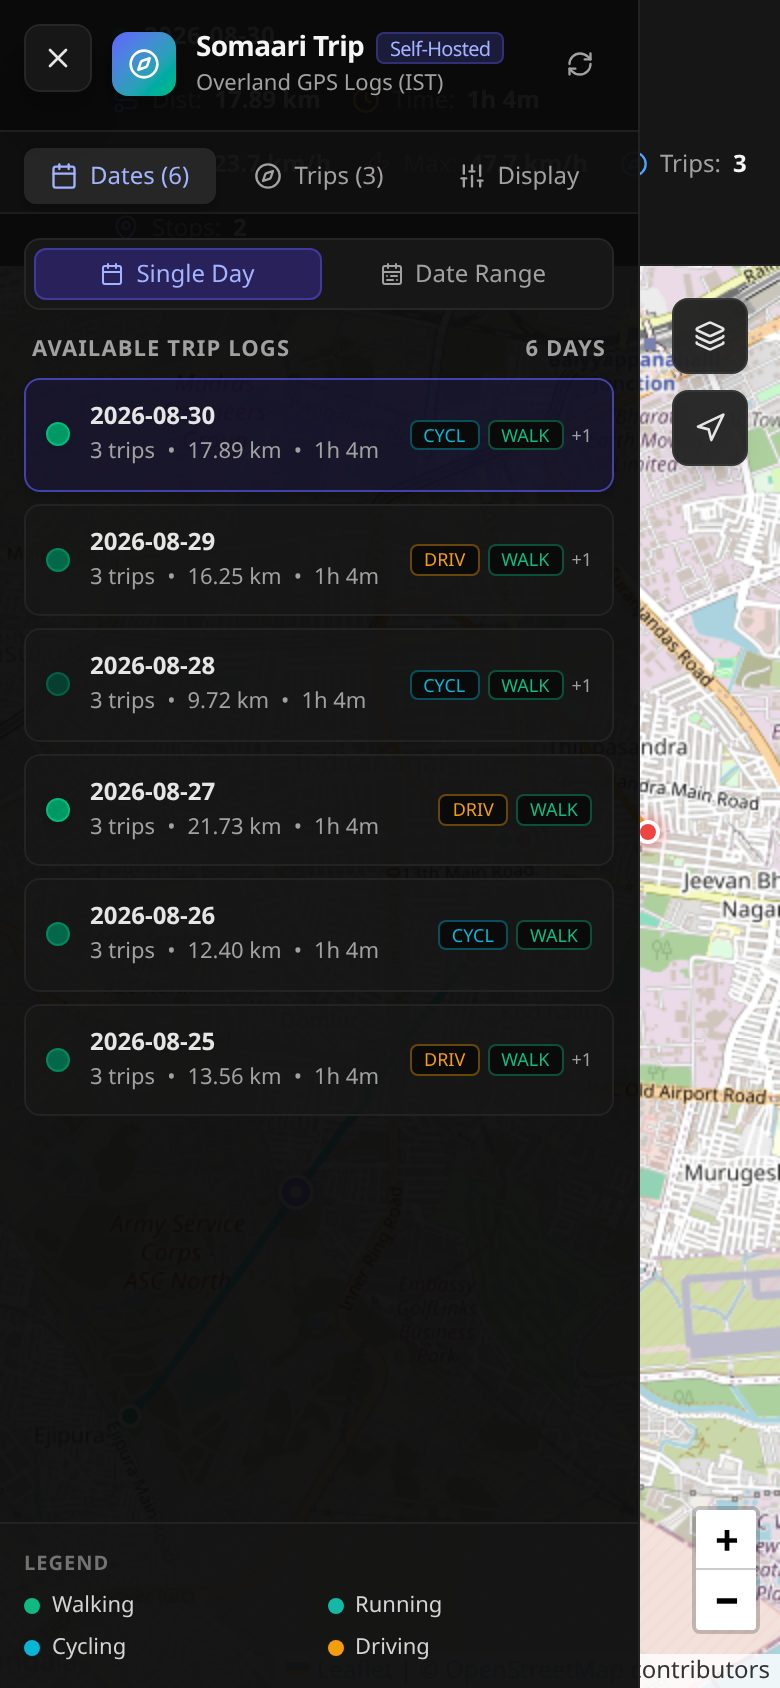
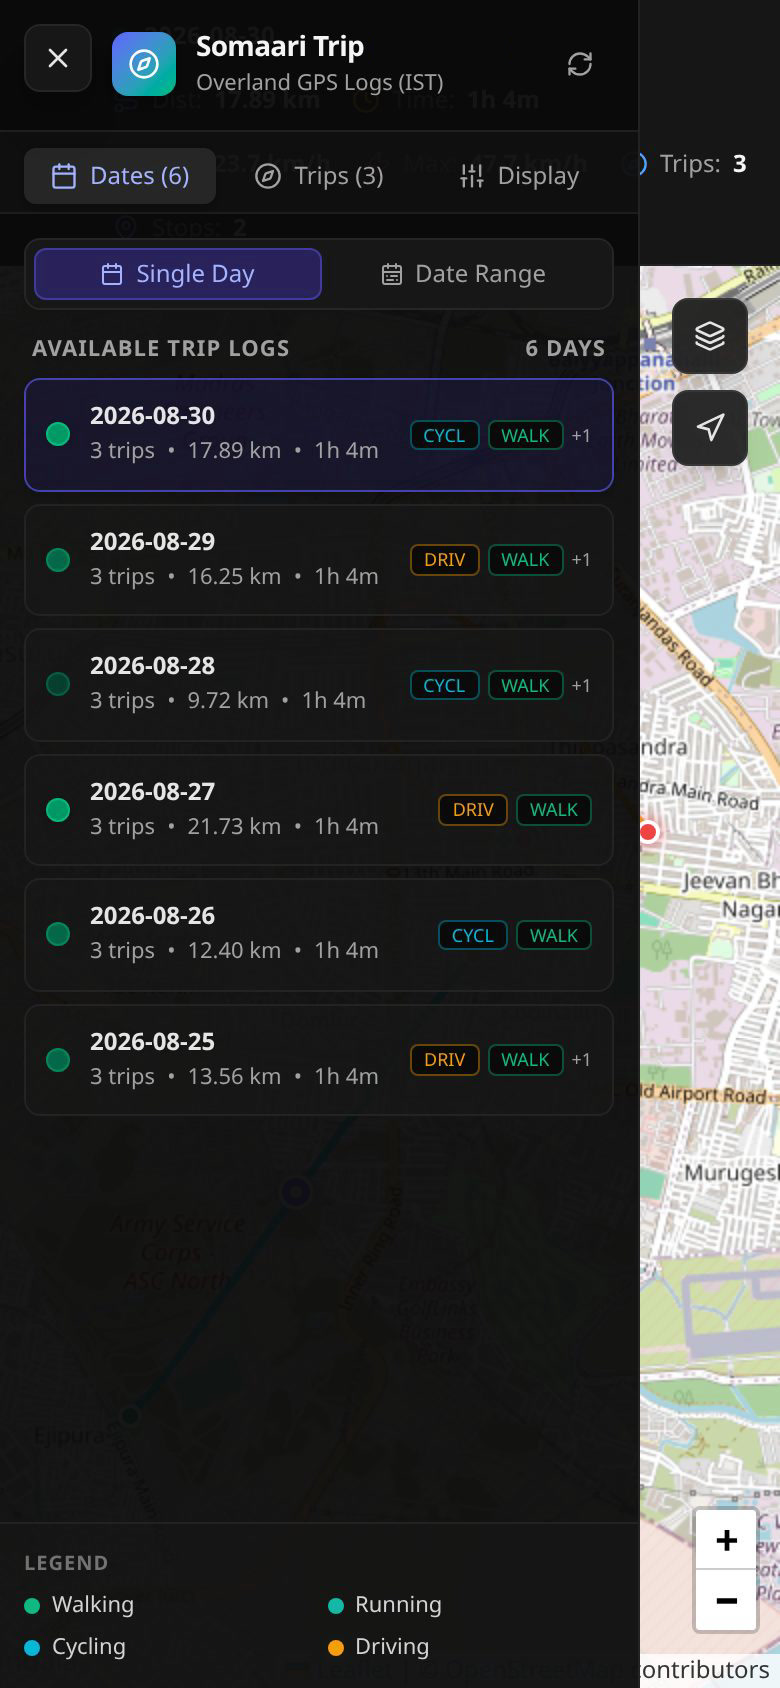
Guide: hide the Self-Hosted badge in screenshots; rebuild somaari.in on docs changes
somaari.in never mentions self-hosting, and it now publishes this guide. The
badge in the sidebar header is painted over with the header's own colour in the
seven screenshots that show it, and the banner's alt text no longer says it.
A push to docs/ on main now calls the somaari-site deploy hook (secret
SOMAARI_SITE_DEPLOY_HOOK) to rebuild the guide page.

Claude-Session: https://claude.ai/code/session_012wHcJhQ2tX3EwkxBZFQeYx

Changed region(s): [[0.4615, 0.0, 0.6462, 0.0616]]

diff --git a/docs/GUIDE.md b/docs/GUIDE.md
@@ -1,6 +1,6 @@
 <div align="center">
 
-<img src="images/banner.svg" alt="somaari-trip — a self-hosted GPS route viewer for Overland iOS" width="100%">
+<img src="images/banner.svg" alt="somaari-trip — a GPS route viewer for Overland iOS" width="100%">
 
 <br>
 
